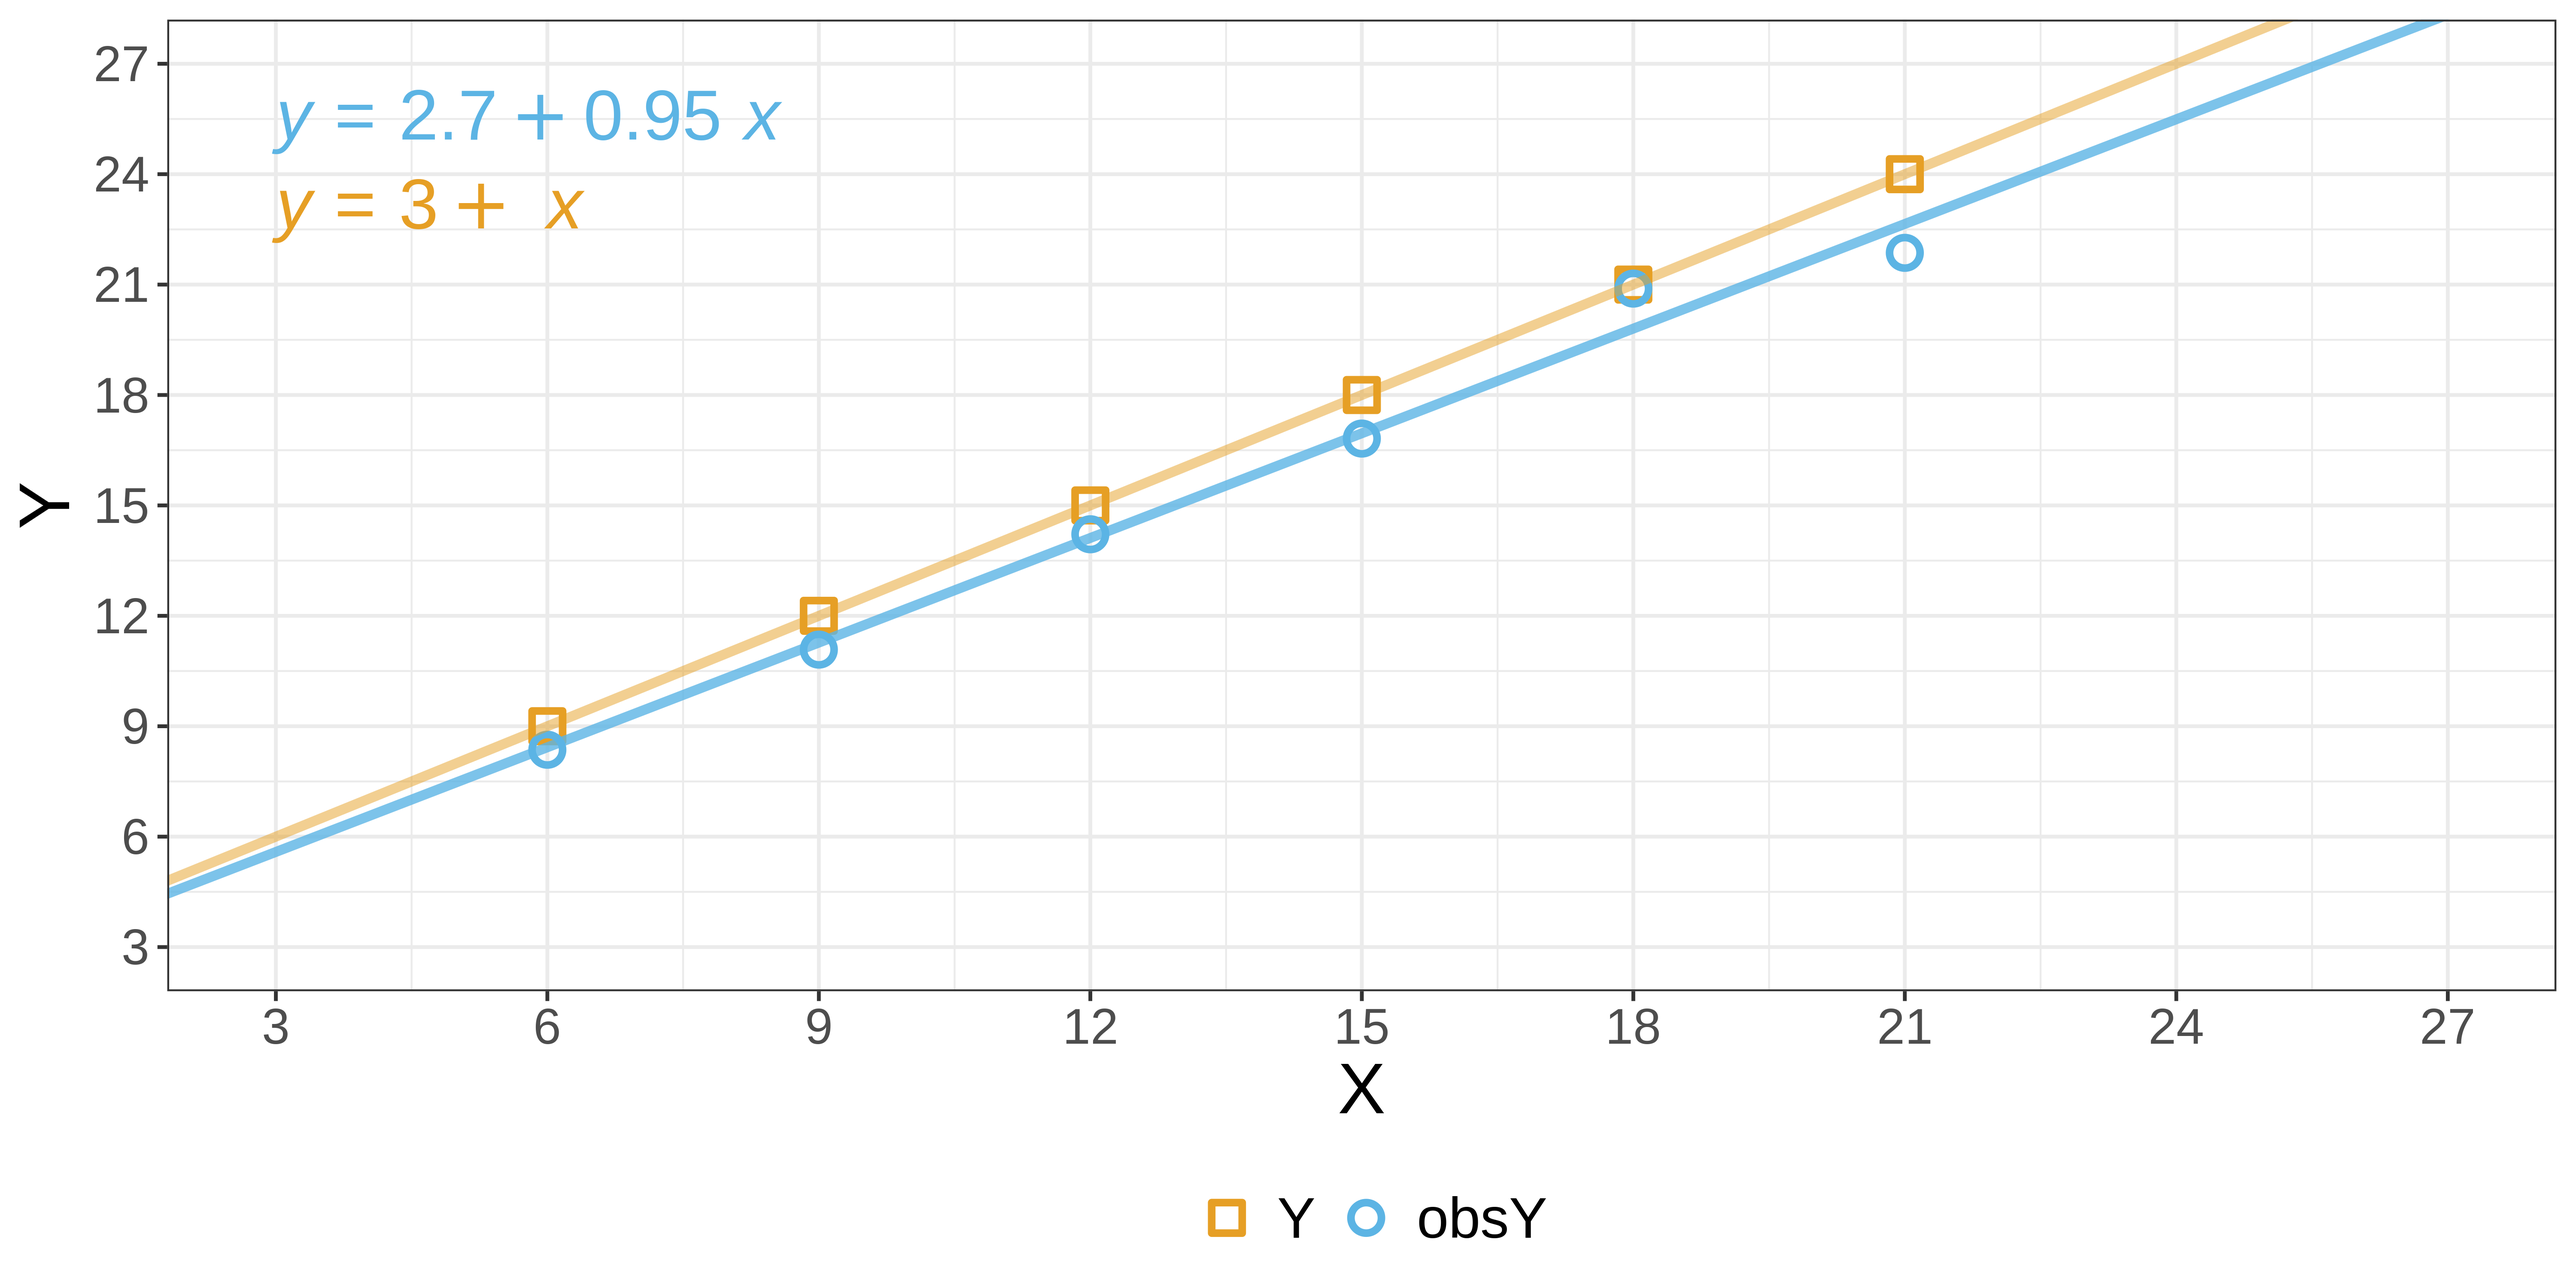
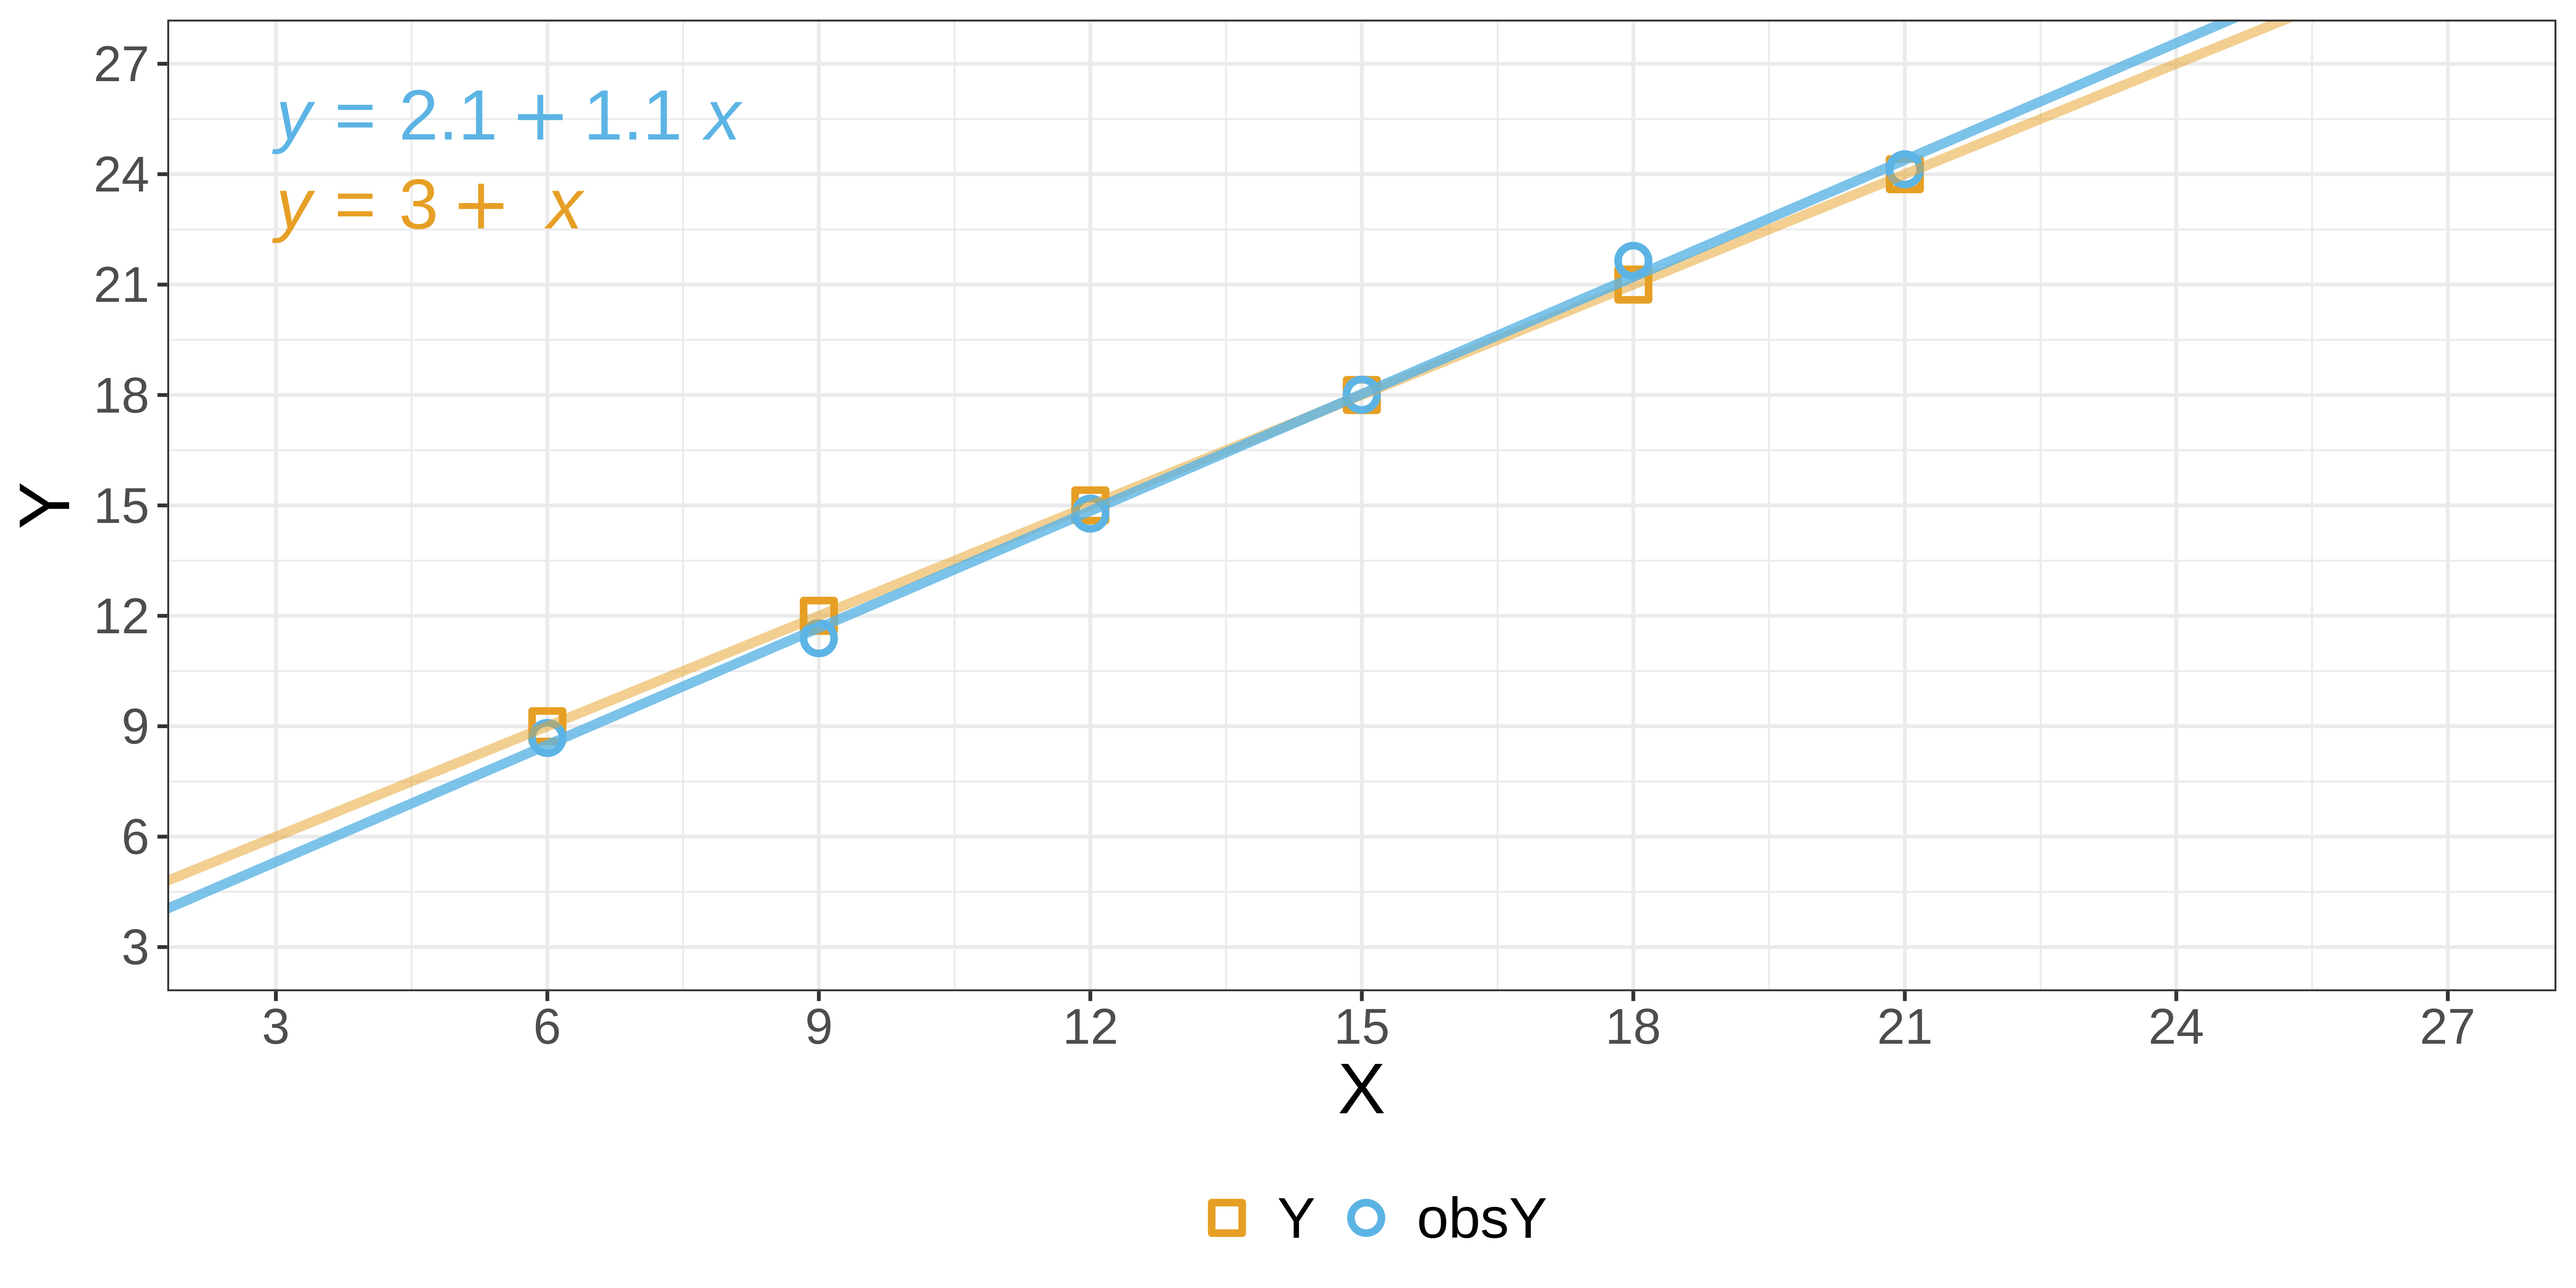
Built site for gh-pages

diff --git a/slides/week01_slides_part2.html b/slides/week01_slides_part2.html
@@ -1084,12 +1084,12 @@ communicate-&gt;end
 <pre><code># A tibble: 6 × 3
       X     Y  obsY
   &lt;int&gt; &lt;int&gt; &lt;dbl&gt;
-1     6     9  8.36
-2     9    12 11.1 
-3    12    15 14.2 
-4    15    18 16.8 
-5    18    21 20.9 
-6    21    24 21.9 </code></pre>
+1     6     9  8.68
+2     9    12 11.4 
+3    12    15 14.8 
+4    15    18 18.0 
+5    18    21 21.6 
+6    21    24 24.1 </code></pre>
 </div>
 </div>
 </section>
@@ -1142,14 +1142,14 @@ communicate-&gt;end
 <div class="cell fragment">
 <div class="cell-output cell-output-stdout">
 <pre><code># A tibble: 6 × 5
-      X     Y  obsY error absError
-  &lt;int&gt; &lt;int&gt; &lt;dbl&gt; &lt;dbl&gt;    &lt;dbl&gt;
-1     6     9  8.36 0.639    0.639
-2     9    12 11.1  0.918    0.918
-3    12    15 14.2  0.784    0.784
-4    15    18 16.8  1.18     1.18 
-5    18    21 20.9  0.109    0.109
-6    21    24 21.9  2.14     2.14 </code></pre>
+      X     Y  obsY    error absError
+  &lt;int&gt; &lt;int&gt; &lt;dbl&gt;    &lt;dbl&gt;    &lt;dbl&gt;
+1     6     9  8.68  0.319    0.319  
+2     9    12 11.4   0.609    0.609  
+3    12    15 14.8   0.223    0.223  
+4    15    18 18.0  -0.00934  0.00934
+5    18    21 21.6  -0.645    0.645  
+6    21    24 24.1  -0.133    0.133  </code></pre>
 </div>
 </div>
 <div class="fragment">
@@ -1157,7 +1157,7 @@ communicate-&gt;end
 <div class="cell" data-output-location="fragment">
 <div class="sourceCode cell-code" id="cb7"><pre class="sourceCode numberSource r code-overflow-wrap number-lines code-with-copy"><code class="sourceCode r"><span id="cb7-1"><a href="#cb7-1"></a><span class="fu">mean</span>(df<span class="sc">$</span>absError)</span></code><button title="Copy to Clipboard" class="code-copy-button"><i class="bi"></i></button></pre></div>
 <div class="cell-output cell-output-stdout">
-<pre><code>[1] 0.961874</code></pre>
+<pre><code>[1] 0.3229853</code></pre>
 </div>
 </div>
 </div>
